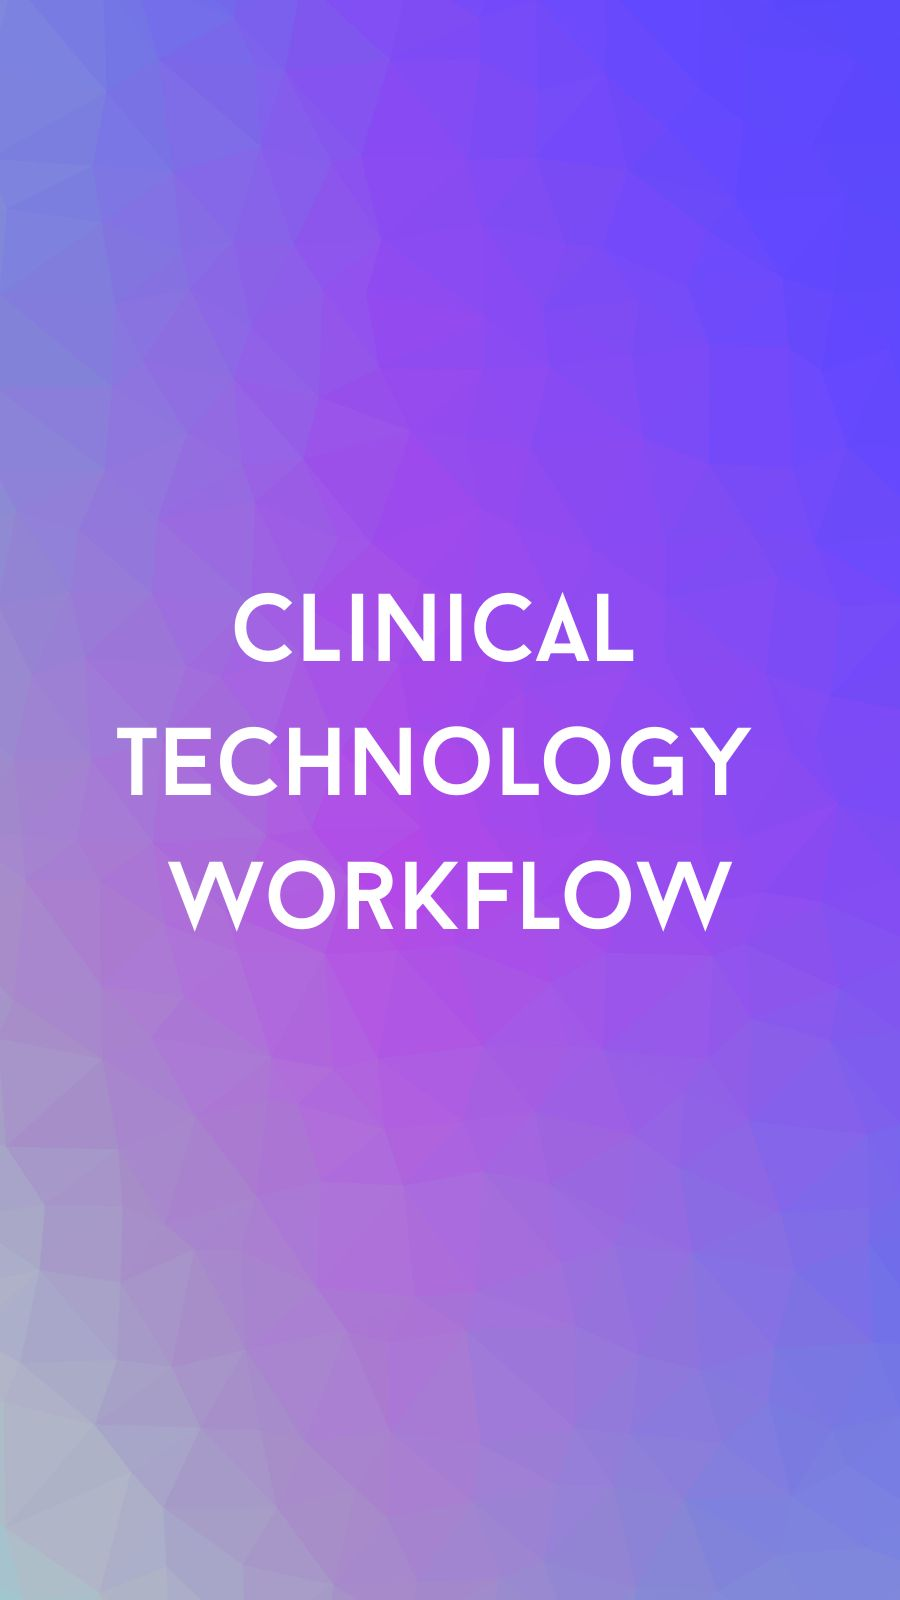
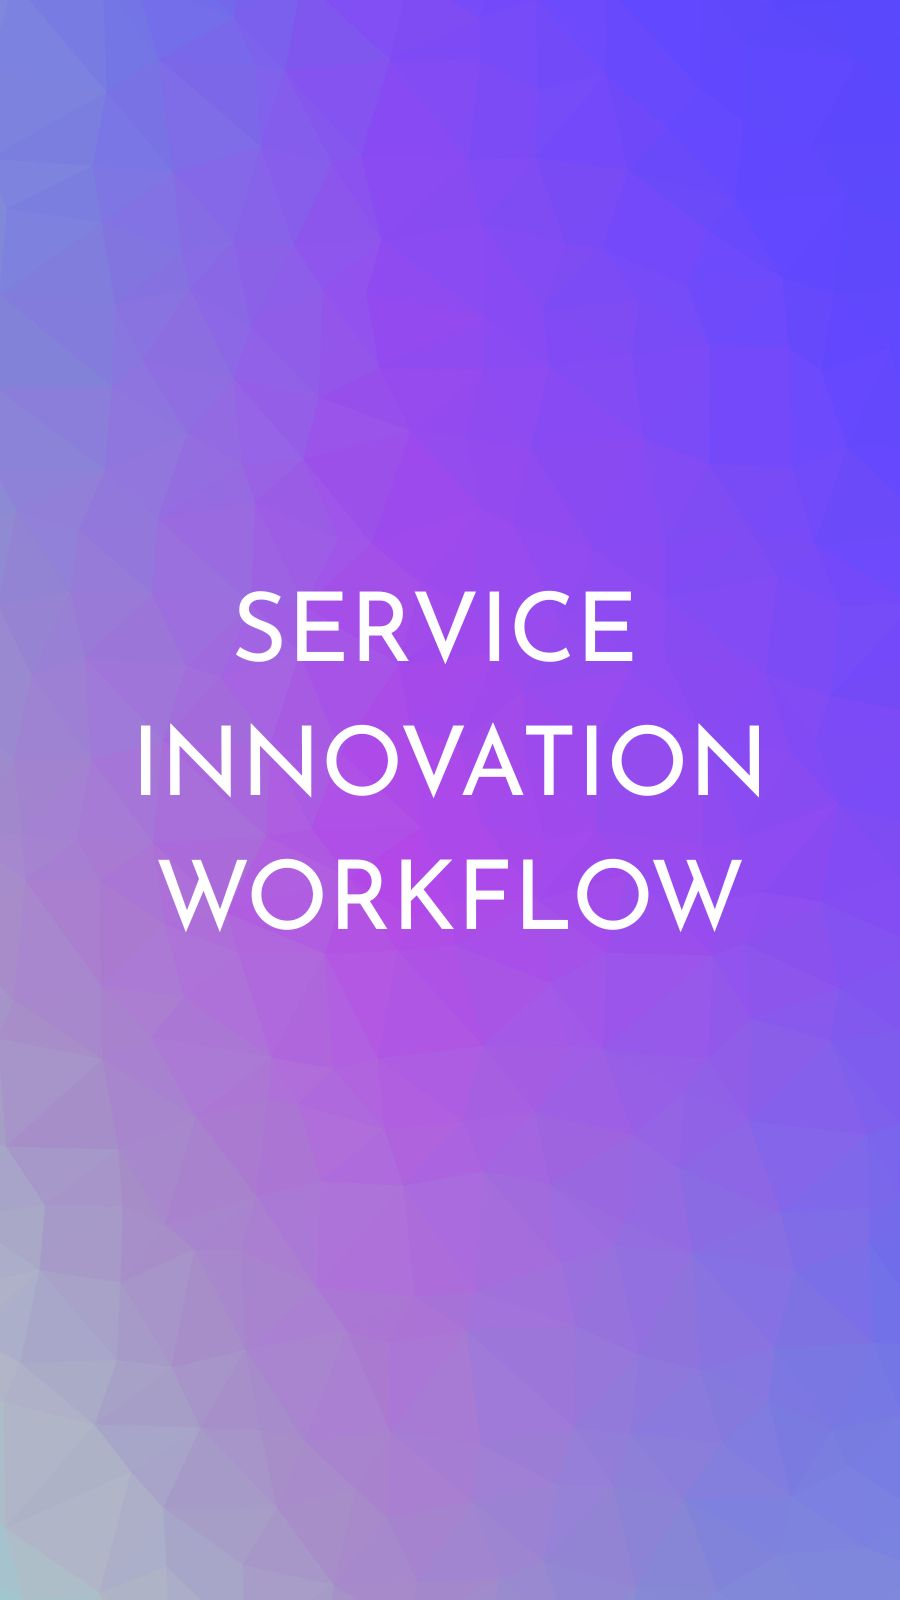
Update website

Changed region(s): [[0.1244, 0.3438, 0.8711, 0.5], [0.1556, 0.5312, 0.5911, 0.5938], [0.5911, 0.5312, 0.84, 0.5938]]

diff --git a/index.html b/index.html
@@ -86,7 +86,7 @@
     <article class="insight-card">
       <div class="insight-image">
         <img
-          src="images/insight-1.jpg"
+          src="image/insight-1.jpg"
           alt="Healthcare innovation workshop and service design session"
           loading="lazy"
         />
@@ -115,7 +115,7 @@
     <article class="insight-card">
       <div class="insight-image">
         <img
-          src="images/insight-2.jpg"
+          src="image/insight-2.jpg"
           alt="Rehabilitation healthcare team discussing patient outcomes"
           loading="lazy"
         />
@@ -144,7 +144,7 @@
     <article class="insight-card">
       <div class="insight-image">
         <img
-          src="images/insight-3.jpg"
+          src="image/insight-3.jpg"
           alt="Digital health dashboard showing healthcare performance metrics"
           loading="lazy"
         />
